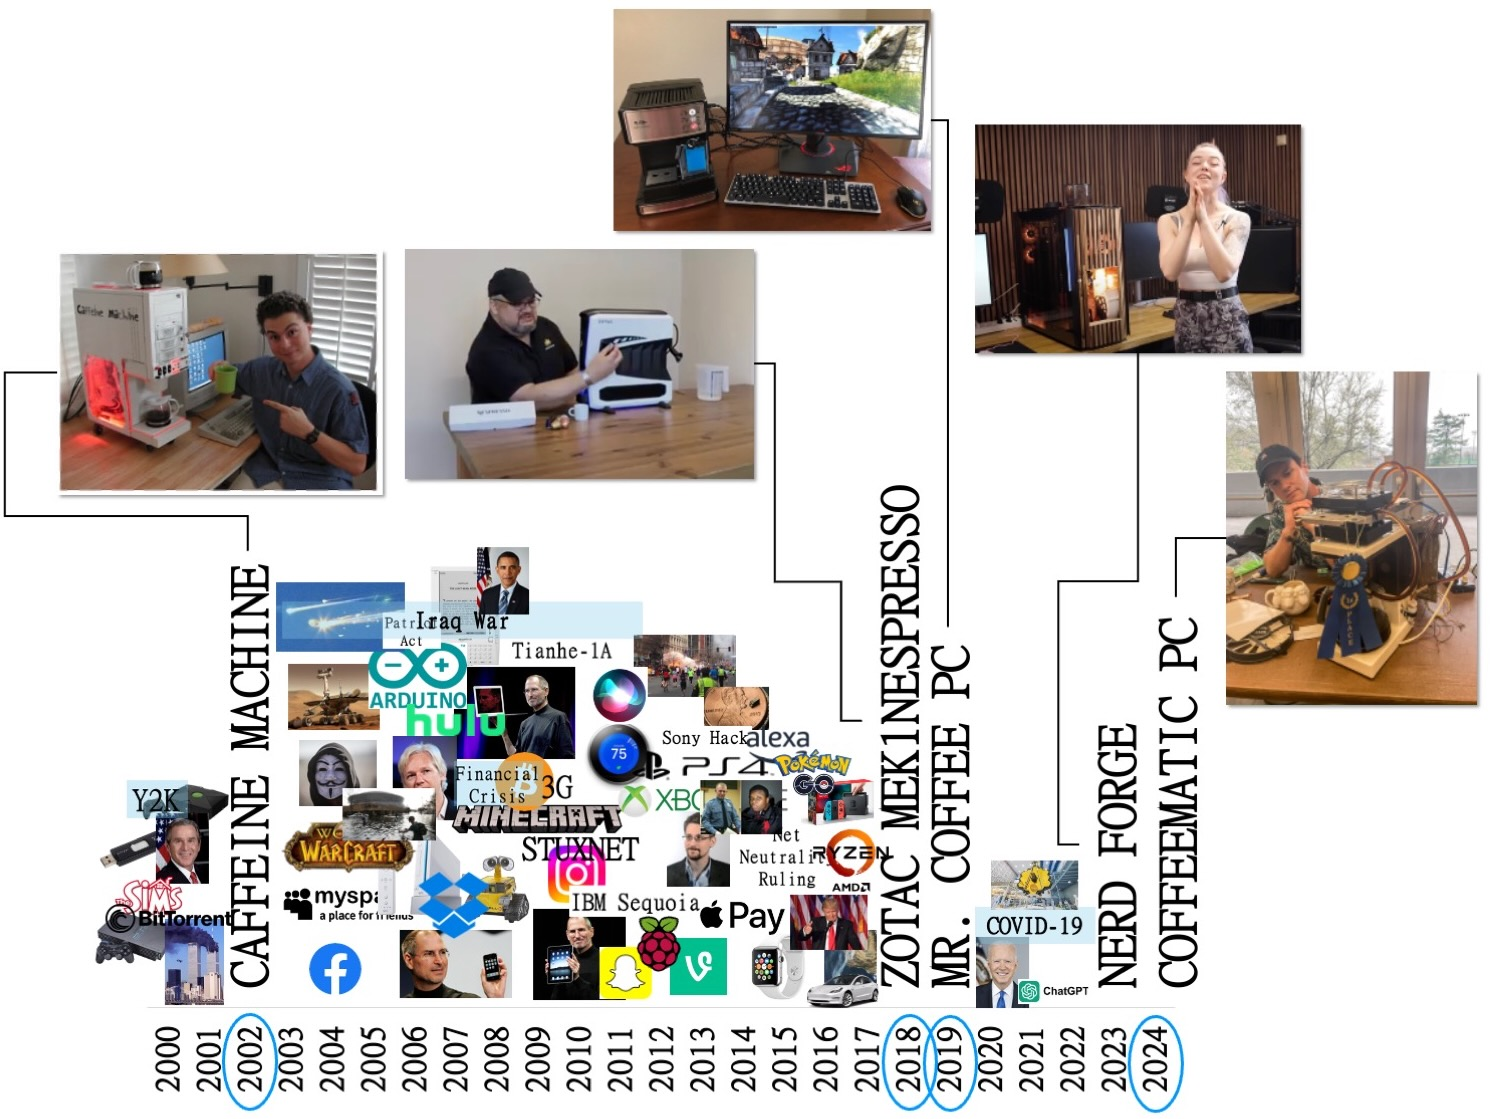
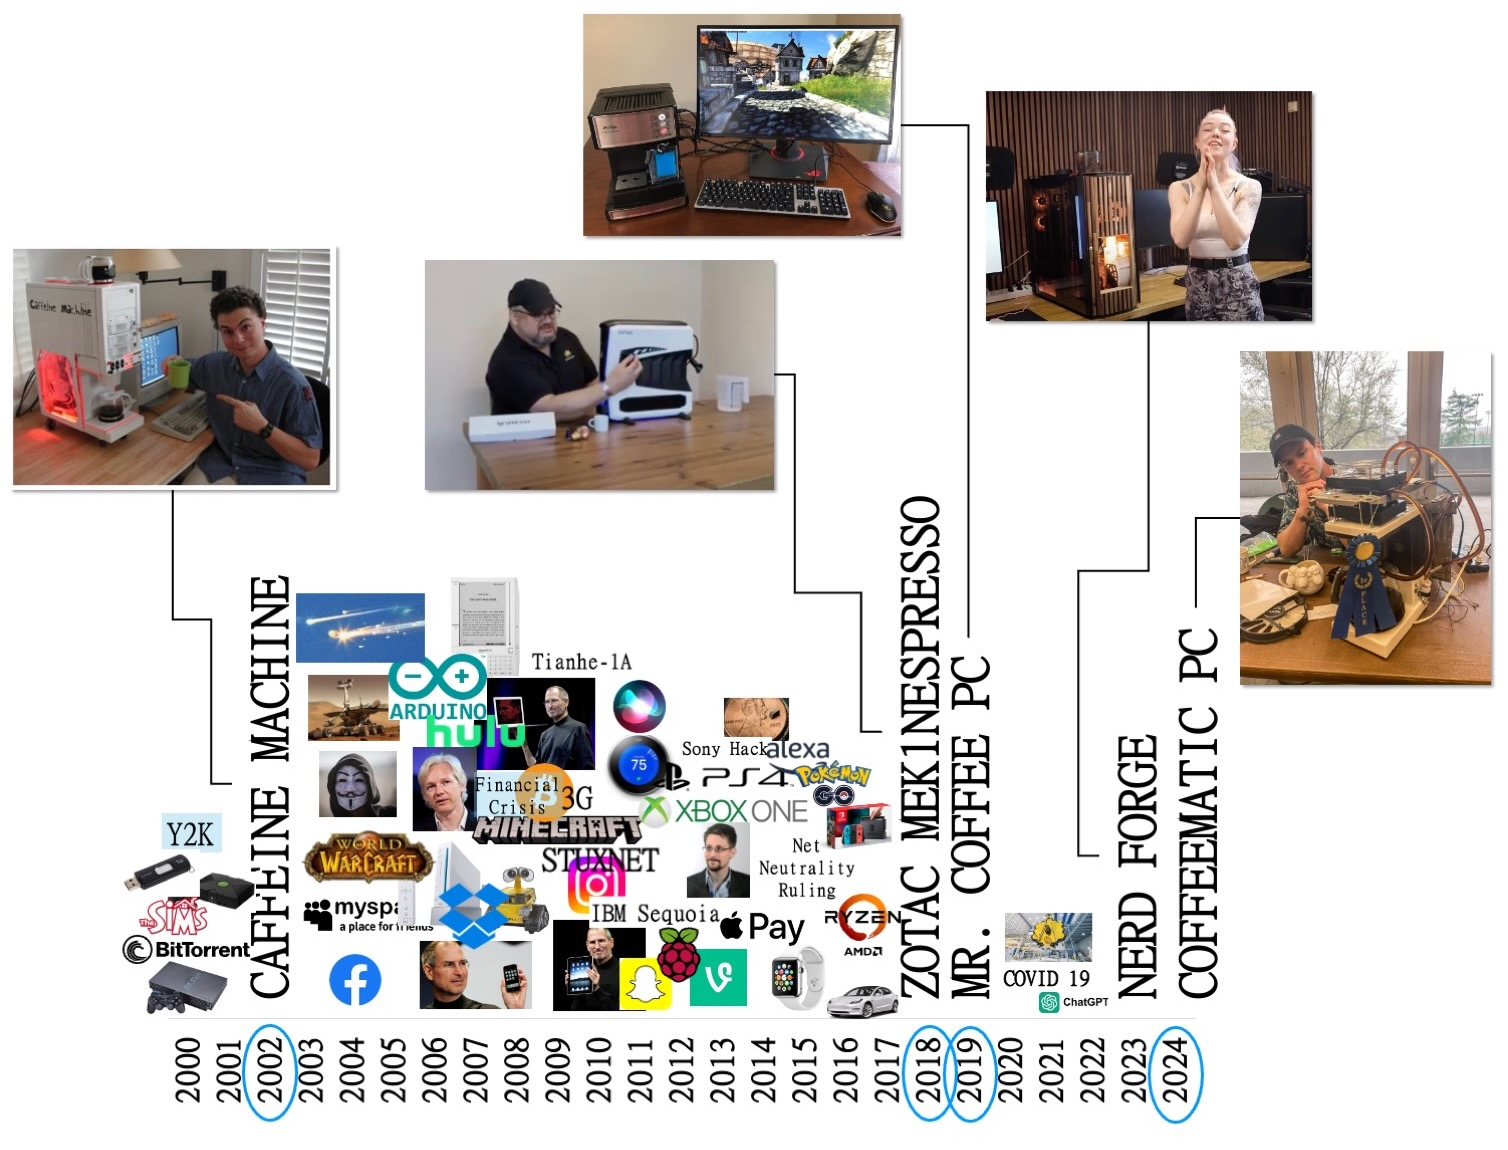
Add files via upload

diff --git a/Percolating Human Computer Interaction, 2024.html b/Percolating Human Computer Interaction, 2024.html
@@ -195,16 +195,23 @@
 </div>
 
           <br />
-        <p class="description">I'm not the first person to synthesize a coffee maker and a computer. 
+        <p class="description"><span class="highlight">The lineage of coffee maker computer builds spans 
+          22 years with a curious 15 year gap in the middle.</span> 
+          I'm not the first person to synthesize a coffee maker and a computer. 
           But, I think I am the first to use hot Java as a cooling method. The graph below shows the lineage of 
-          coffee maker computers. There are a total of 5.  In 2002 Nick Pelas built the first ever coffee maker computer named The Caffeine Machine. 
-          Then, the builds went cold for 15 years until 2018, when a company named Zotac made a coffee maker computer 
-          to feature in a trade show. One year after in 2019, a man whose username is Logarythm made the Mr. Coffee PC. This is perhaps 
-          my favorite coffee maker PC build. Logarythm has built several incredible PCs and he has a sleeper type of identity. 
-          5 years later, after COVID-19, NerdForge, a youtube channel specializing on fun builds, built a "PC that 
-          makes coffee". During this time I was making Coffeematic PC. I was only aware of 2002's Caffeine Machine when making 
-          Coffeematic PC. The discovery of the other build has exposed an interesting lineage of PC builds. Curiously spanned 22 years 
-          apart with a 15 year gap in the midde.   <br /> <br />
+          coffee maker computers. There are a total of 5.  In 2002 Nick Pelas built the first ever coffee maker computer named 
+          <a href="https://web.archive.org/web/20131210043642/http://themodzoo.com/forum/index.php?/topic/931-the-caffeine-machine/" target="_blank">The Caffeine Machine</a>. 
+          Then, the builds went cold for 16 years until 2018, when a company named 
+          <a href="https://www.pcgamer.com/this-pc-has-a-built-in-coffee-maker/" target="_blank">Zotac made a coffee maker computer</a> 
+          to feature in a trade show. One year after in 2019, a man whose username is Logarythm made the 
+          <a href="https://pcpartpicker.com/b/mngwrH" target="_blank">Mr. Coffee PC</a>. This unassuming build is perhaps 
+          my favorite. 
+          5 years later, after COVID-19, NerdForge, a youtube channel specializing on fun builds, built a 
+          <a href="https://www.tomshardware.com/desktops/pc-building/youtubers-build-pc-with-coffee-machine-inside-full-roaster-and-grinder-fit-in-the-chassis" target="_blank">"PC that 
+            makes coffee"</a>. During this time I was making 
+            <a href="https://www.dougmacdowell.com/Percolating%20Human%20Computer%20Interaction,%202024.html" target="_blank">Coffeematic PC</a>.
+          </p>
+            <br /> <br />
 
           <img
           src="images/COFFEE_16.jpeg"
@@ -212,14 +219,6 @@
           class="responsive-image-2"
           />
           <br />
-            <ul>
-              <li><a href="https://web.archive.org/web/20131210043642/http://themodzoo.com/forum/index.php?/topic/931-the-caffeine-machine/" target="_blank">2002 - The Caffeine Machine - Nick Pelis</a></li>
-              <li><a href="https://www.pcgamer.com/this-pc-has-a-built-in-coffee-maker/" target="_blank">2018 - Zotac's Mek1 Nespresso</a></li>
-              <li><a href="https://pcpartpicker.com/b/mngwrH" target="_blank">2019 - Mr. Coffee PC - Logarythym</a></li>
-              <li><a href="https://www.tomshardware.com/desktops/pc-building/youtubers-build-pc-with-coffee-machine-inside-full-roaster-and-grinder-fit-in-the-chassis" target="_blank">2024 - I Built a PC that Makes Coffee - Nerdforge's Martina and Hansi</a></li>
-              <li><a href="https://www.dougmacdowell.com/Percolating%20Human%20Computer%20Interaction,%202024.html" target="_blank">2024 - Coffeematic PC - Doug MacDowell</a></li>
-            </ul>
-            <br /><br />
 
 
 
